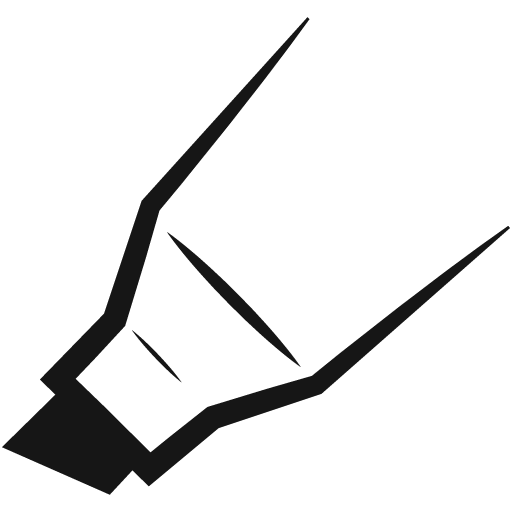
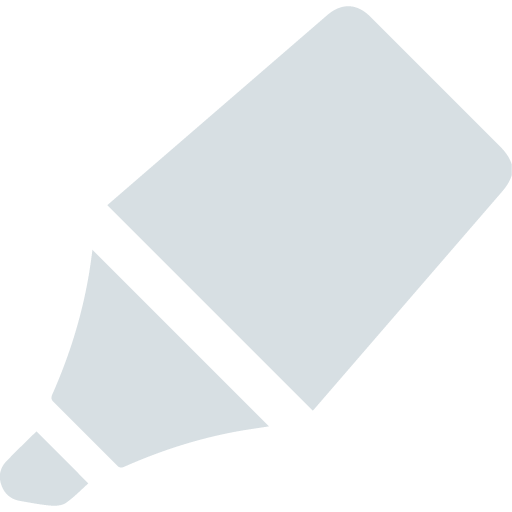
improved UI css/readerUI.css - By Lyddar Changes.
New ToolBar icons.

New Marker Cursor.

diff --git a/Reader - HTML/css/readerUI.css b/Reader - HTML/css/readerUI.css
@@ -33,17 +33,17 @@ body {
 /* Top Information Bar */
 
 .top-bar {
-    background: #689FAF;
+    background: #5089A5;
     color: white;
     /* -moz-border-radius: 0px 0px 60px 60px;
     -webkit-border-radius: 0px 0px 60px 60px;
     border-radius: 0px 0px 60px 60px;
     -khtml-border-radius: 0px 0px 60px 60px; */
-    border-bottom: 5px solid #366A87;
+    
     position: fixed;
     width: 100%;
-    padding-top: 10px;
-    padding-bottom: 10px;
+    padding-top: 13px;
+    padding-bottom: 12px;
     text-align: center;
 }
 
@@ -93,7 +93,7 @@ body {
     -webkit-border-bottom-right-radius: 60px;
     border-bottom-right-radius: 60px;
     -khtml-border-bottom-right-radius: 60px; */
-    background: #448196;
+    background: #84B0C1;
     top: initial;
 }
 
@@ -101,8 +101,8 @@ body {
 
 .table-of-content-side-panel {
     height: 100%;
-    background: #B2C9D3;
-    border-left: 5px solid #85A2BA;
+    background: #A4B9C3;
+    border-left: 5px solid #84B0C1;
     float: right;
     padding: 0;
     position: fixed;
@@ -206,12 +206,15 @@ body {
 .tool-bar {
     position: fixed;
     float: left;
-    background-color: #B2C9D3;
-    width: 80px;
-    height: 318px;
+    background-color: #84B0C1;
+    width: 75px;
+    height: 281px;
     top: 150px;
     left: 30px;
-    border: 1px solid #91B5CE;
+    
+    padding-top: 5px;
+    padding-bottom: 5px;
+    
     -moz-border-bottom-left-radius: 80px;
     -webkit-border-bottom-left-radius: 80px;
     border-bottom-left-radius: 80px;
@@ -229,30 +232,29 @@ body {
 .tool-item {
     display: inline-block;
     position: relative;
-    margin: 6px;
-    margin-bottom: 9px;
-    background: #A5BCC4;
-    width: 65px;
-    height: 65px;
+    margin: 7px;
+    margin-bottom: 4px;
+    margin-top: 4px;
+    background: #5089A5;
+    width: 60px;
+    height: 60px;
     border-radius: 100%;
     border-radius: 100%;
-    border: 1px solid #83A6BA;
     
     z-index: 5;
 }
 
 .tool-item:hover {
-    background: #B8C8CC;
-    border: 1px solid whitesmoke;
+    background: #6199AF;
 }
 
 .tool-item img {
     display: block;
     position: relative;
     top: 7px;
-    left: 0px;
-    width: 38px;
-    height: 38px;
+    left: -1px;
+    width: 32px;
+    height: 32px;
 }
 
 .progress {
@@ -300,14 +302,17 @@ body {
 .marker-panel {
     display: inline-block;
     position: relative;
-    top: -231px;
+    top: -199px;
     float: left;
     left: 35px;
     
-    background: lightgray;
+    background: #84B0C1;
+    border-bottom: 3px solid #5089A5;
+    opacity: 0.75;
     
-    height: 60px;
-    width: 315px;
+    
+    height: 58px;
+    width: 308px;
     
     
     -moz-border-bottom-right-radius: 80px;
@@ -326,11 +331,11 @@ body {
     position: relative;
     float: left;
     
-    left: 40px;
+    left: 35px;
     
     height: 48px;
     width: 48px;
-    margin: 6px 3px;
+    margin: 5px 3px;
     
     -moz-border-radius: 100%;
     -webkit-border-radius: 100%;
@@ -338,23 +343,23 @@ body {
 }
 
 .marker-color.yellow {
-    background-color: yellow;
-    border-color: black;
+    background-color: #FFEA55;
+    border-color: #D8C032;
 }
 
 .marker-color.blue {
-    background-color: deepskyblue;
-    border-color: black;
+    background-color: #40FFFA;
+    border-color: #20CEC5;
 }
 
 .marker-color.pink {
-    background-color: hotpink;
-    border-color: black;
+    background-color: #FF64F8;
+    border-color: #D848D8;
 }
 
 .marker-color.green {
-    background-color: limegreen;
-    border-color: black;
+    background-color: #9DFF36;
+    border-color: #86DB23;
 }
 
 .marker-color.unmarker {
@@ -364,22 +369,6 @@ body {
 /* for markerTool.js */
 .marker-cursor {
 	cursor: url('/images/ToolBar/marker-cur.png'), default;
-}
-
-.highlight-yellow {
-    background-color: yellow;
-}
-
-.highlight-blue {
-    background-color: deepskyblue;
-}
-
-.highlight-pink {
-    background-color: hotpink;
-}
-
-.highlight-green {
-    background-color: limegreen;
 }
 
 /*::selection {

diff --git a/Reader - HTML/index.html b/Reader - HTML/index.html
@@ -70,25 +70,25 @@
                 <div id="cursor-tool" class="btn tool-item">
                     <img src="images/ToolBar/CursorTool.png">
                 </div>
-
+                
                 <div id="marker-tool" class="btn tool-item">
                     <img src="images/ToolBar/MarkerTool.png">
-                </div>                
-
+                </div> 
+                
                 <div id="aa-tool" class="btn tool-item">
                     <img src="images/ToolBar/AaTool.png">
                 </div>
-
+                
                 <div id="search-tool" class="btn tool-item">
                     <img src="images/ToolBar/SearchTool.png">
                 </div>
-                
+
                 <div id="marker-colors" class="marker-panel">
-                        <div id="marker-yellow" class="btn marker-color yellow" value="yellow"></div>
-                        <div id="marker-blue" class="btn marker-color blue" value="deepskyblue"></div>
-                        <div id="marker-pink" class="btn marker-color pink" value="hotpink"></div>
-                        <div id="marker-green" class="btn marker-color green" value="limegreen"></div>
-                        <div id="marker-unmarker" class="btn marker-color unmarker" value="none"></div>
+                        <div id="marker-yellow" class="btn marker-color yellow" value="#FFEA55"></div>
+                        <div id="marker-blue" class="btn marker-color blue" value="#40FFFA"></div>
+                        <div id="marker-pink" class="btn marker-color pink" value="#FF64F8"></div>
+                        <div id="marker-green" class="btn marker-color green" value="#9DFF36"></div>
+                        <div id="marker-unmarker" class="btn marker-color unmarker" value="transparent"></div>
                 </div>
             </section>
 

diff --git a/Reader - HTML/js/markerTool.js b/Reader - HTML/js/markerTool.js
@@ -2,7 +2,7 @@ $(document).ready(function() {
     $(".marker-panel").hide();
     
     var bIsMarkerActive = false;
-    var selectedColor = "unmarker";
+    var selectedColor = "transparent";
     
     $(".book, .inner-container, .top-bar, .table-of-content-side-panel").click(function() {
         $(".marker-panel").hide("slide", { direction: "left" }, 750);
@@ -25,7 +25,7 @@ $(document).ready(function() {
     
     $("#cursor-tool").click(function() {
         bIsMarkerActive = false;
-        selectedColor = "unmarker";
+        selectedColor = "transparent";
         
         $("body").removeClass('marker-cursor');
         
